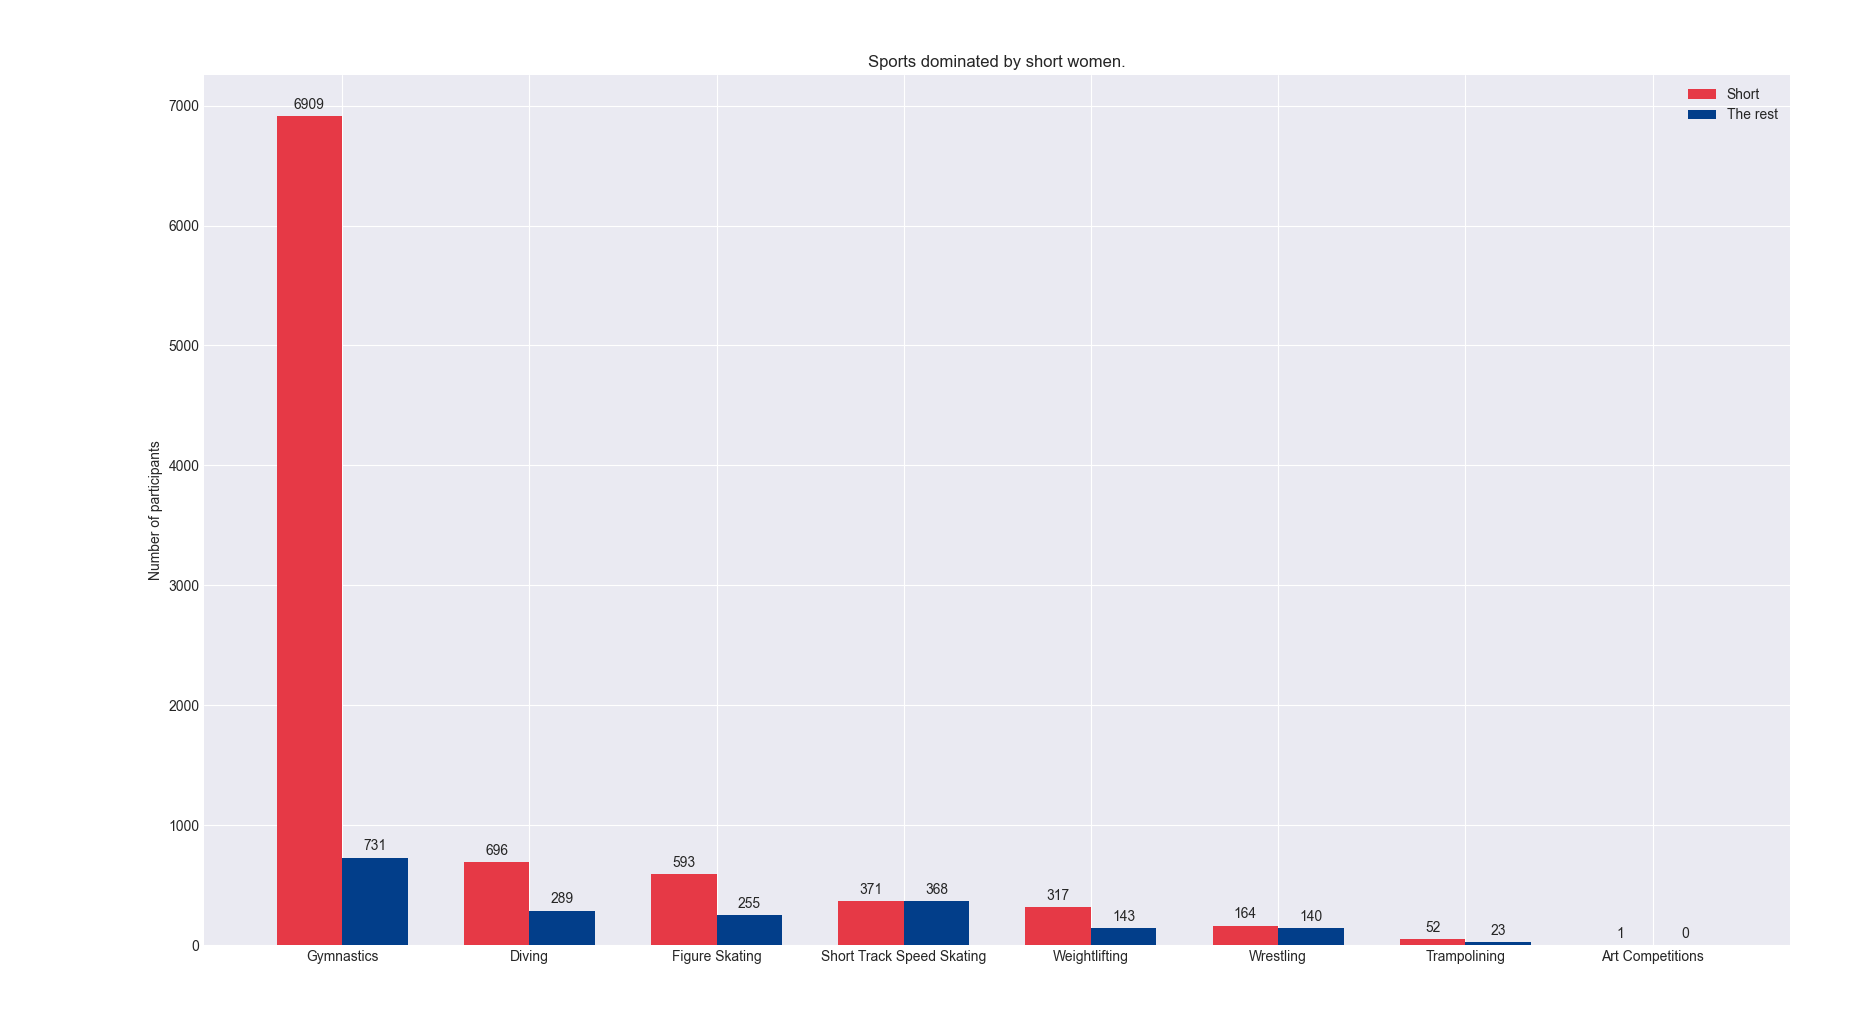
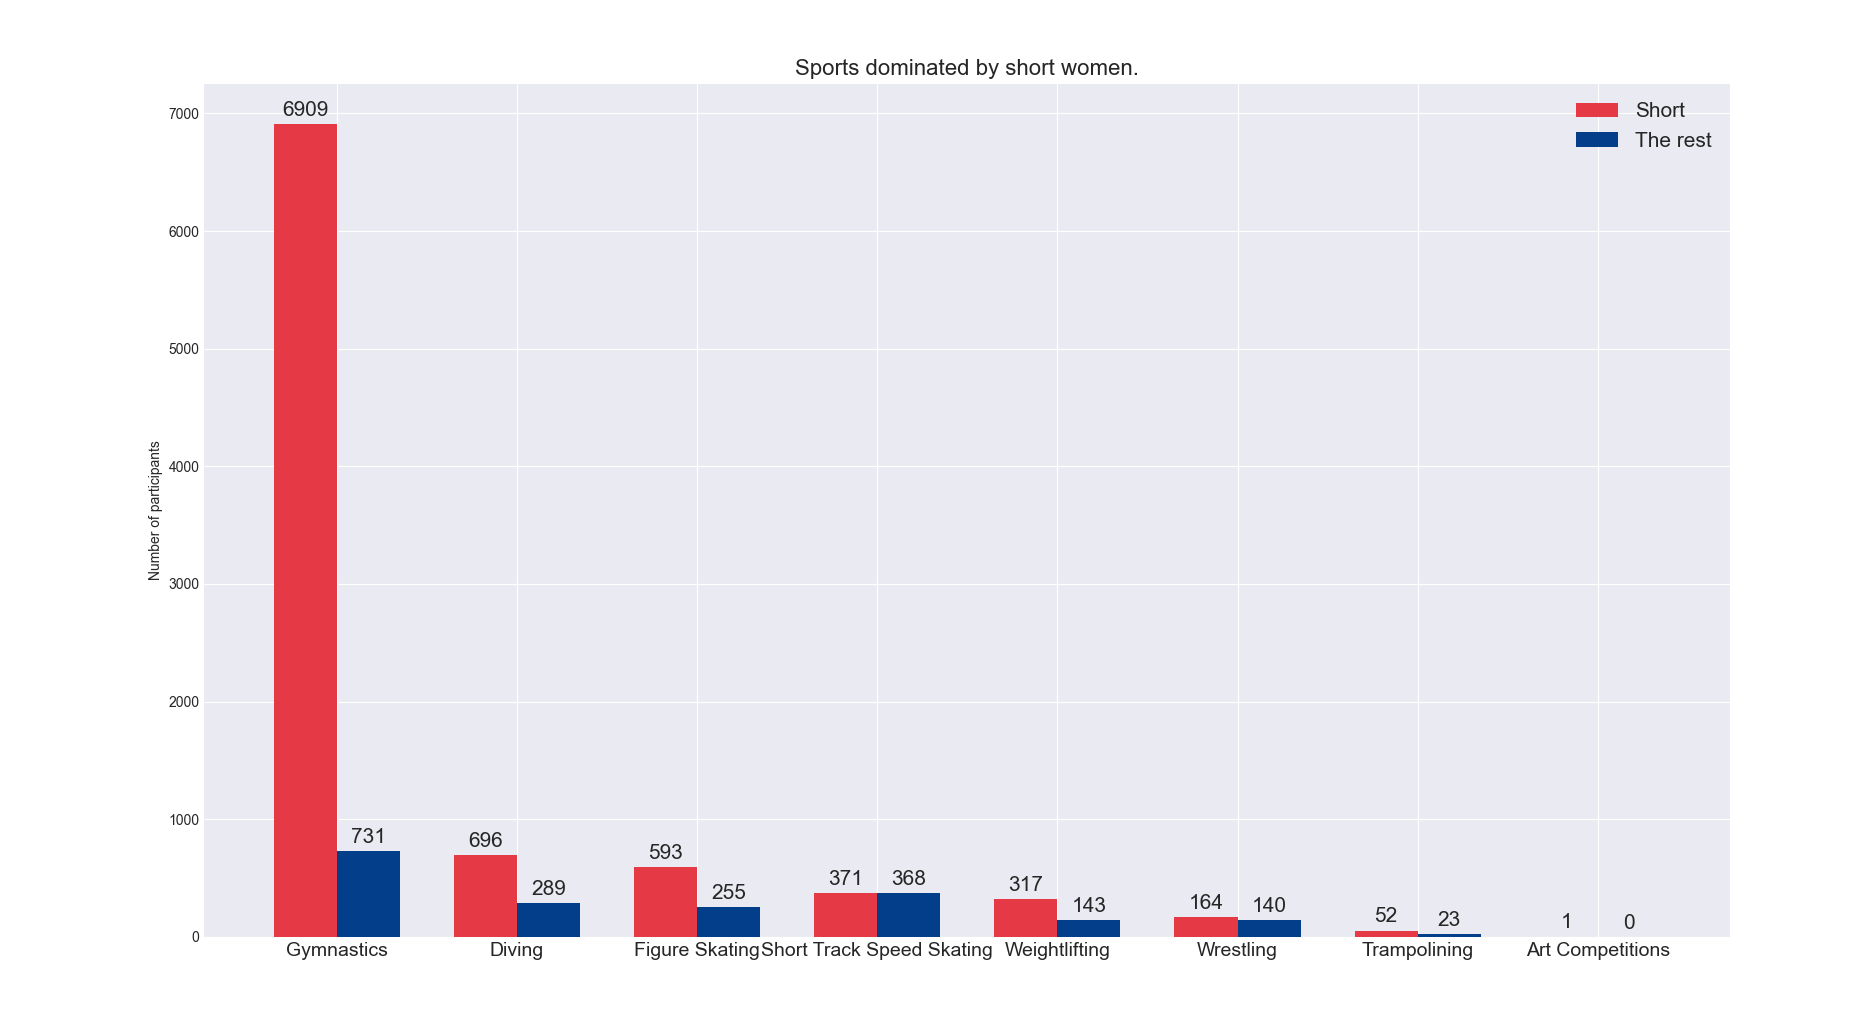
Font has been increased

diff --git a/medals.py b/medals.py
@@ -43,14 +43,14 @@ if __name__ == '__main__':
     ax3.bar([z[0] for z in top_4_10], [z[1] for z in top_4_10],
             color=colors)
 
-    ax1.set_xlabel("Countries")
-    ax1.set_ylabel("Number of medals won")
+    ax1.set_xlabel("Countries", fontsize=14)
+    ax1.set_ylabel("Number of medals won", fontsize=14)
     ax1.set_title("Top four medal winners of all time.", fontsize=15)
-    ax2.set_xlabel("Countries")
-    ax2.set_ylabel("Number of medals won")
+    ax2.set_xlabel("Countries", fontsize=14)
+    ax2.set_ylabel("Number of medals won", fontsize=14)
     ax2.set_title("Top four medal winners of the past 20 years.", fontsize=15)
-    ax3.set_xlabel("Countries")
-    ax3.set_ylabel("Number of medals won")
+    ax3.set_xlabel("Countries", fontsize=14)
+    ax3.set_ylabel("Number of medals won", fontsize=14)
     ax3.set_title("Top four medal winners of the past 10 years.", fontsize=15)
 
     plt.show()

diff --git a/height.py b/height.py
@@ -46,12 +46,12 @@ if __name__ == '__main__':
 
     ax1.set_title("Height and number of medals won by men comparision.",
             fontsize=16)
-    ax1.set_xlabel("Height")
-    ax1.set_ylabel("Number of medals won")
+    ax1.set_xlabel("Height", fontsize= 15)
+    ax1.set_ylabel("Number of medals won", fontsize= 15)
 
     ax2.set_title("Height and number of medals won by women comparision.",
             fontsize=16)
-    ax2.set_xlabel("Height")
-    ax2.set_ylabel("Number of medals won")
+    ax2.set_xlabel("Height", fontsize= 15)
+    ax2.set_ylabel("Number of medals won", fontsize= 15)
 
     plt.show()

diff --git a/short.py b/short.py
@@ -13,13 +13,13 @@ def plot_dual(labels, short, rest, title):
 
     # Add some text for labels, title and custom x-axis tick labels, etc.
     ax.set_ylabel('Number of participants')
-    ax.set_title(title)
+    ax.set_title(title, fontsize=16)
     ax.set_xticks(x)
-    ax.set_xticklabels(labels)
-    ax.legend()
+    ax.set_xticklabels(labels, fontsize=14)
+    ax.legend(fontsize=15)
 
-    ax.bar_label(rects1, padding=3)
-    ax.bar_label(rects2, padding=3)
+    ax.bar_label(rects1, padding=3, fontsize=15)
+    ax.bar_label(rects2, padding=3, fontsize=15)
 
     fig.tight_layout()
     plt.show()

diff --git a/age.py b/age.py
@@ -17,6 +17,6 @@ if __name__ == '__main__':
     ax1.bar([x[0] for x in data], [x[1] for x in data])
 
     ax1.set_title("Age and number of medals won comparision.", fontsize=16)
-    plt.xlabel("Age")
-    plt.ylabel("Number of medals won")
+    plt.xlabel("Age", fontsize= 15)
+    plt.ylabel("Number of medals won", fontsize= 15)
     plt.show()

diff --git a/participants.py b/participants.py
@@ -17,6 +17,6 @@ if __name__ == '__main__':
     ax1.bar([x[0] for x in data], [x[1] for x in data])
 
     ax1.set_title("Participants 1896-2016.", fontsize=16)
-    plt.xlabel("Years")
-    plt.ylabel("Number of participants")
+    plt.xlabel("Years", fontsize= 15)
+    plt.ylabel("Number of participants", fontsize= 15)
     plt.show()
